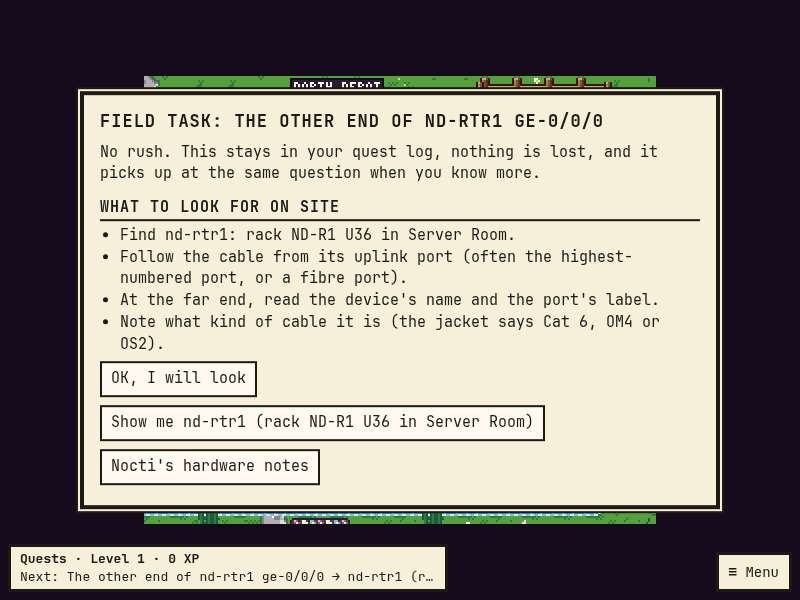
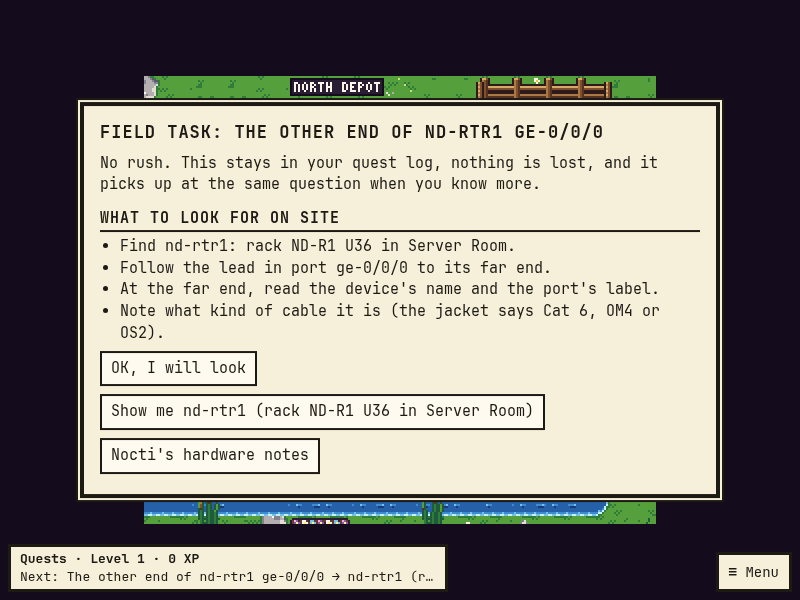
Quests: live tests for part-confirmed errands, undone fixes and the kept estate; plain words for missing permissions
- Live: an errand confirmed one device at a time, "It has none" counted as answered and never paid, the kept estate
  equal to a whole new read after every write, a fix removed in NetBox counted and not reopened, health on a proxy
  token that cannot read users, the quest log and the line naming a missing permission before Apply.
- The quest log says what a player's NetBox user may not write in plain words (cables, circuits, addresses ...).
- A line about one port names that port in its field task.
- Live e2e plays the line of an addressed router port (a management port's address no longer asks for a cable).

Changed region(s): [[0.0938, 0.12, 0.9062, 0.87]]

diff --git a/web/e2e-live/quests-live.spec.ts b/web/e2e-live/quests-live.spec.ts
@@ -4,7 +4,7 @@ import { boot, game, typed } from '../e2e/game-helpers';
 // A quest on the live stack, written for real: against a WRITER's own dev NetBox stack (fresh seed), with the proxy on
 // that stack's rw token and WRITE_ENABLED=1, vite in front of it (RACKWALKER_LIVE_URL), and NB_URL + NB_ADMIN_TOKEN
 // for the NetBox-side checks and to make the player. The player is a NetBox user made for this run, who may add
-// cables and nothing else: they ask North Depot's quest giver, answer what the far end of nd-core1's management port
+// cables and nothing else: they ask North Depot's quest giver, answer what the far end of nd-rtr1's addressed port
 // is, preview the cable, apply it, and NetBox confirms: XP, the cable tracer, the changelog naming the player. The
 // cable and the user are removed afterwards, so the stack is as seeded again and the test can run again.
 // Screenshots: docs/screenshots/quests/live-*.png and reward.png.
@@ -40,8 +40,8 @@ test('live: a quest line from the giver to a cable NetBox confirms, with XP, a t
   test.skip(!health.write_enabled, 'needs a write-enabled proxy (WRITE=1 FORCE=1 make netbox-env, then make dev)');
   expect(health.netbox.permission_check).toBe('ok');
   type Port = { id: number; cable: { id: number } | null };
-  const core = (await nb<{ results: Port[] }>('/api/dcim/interfaces/?device=nd-core1&name=mgmt0')).results[0]!;
-  expect(core.cable, 'fresh seed: nd-core1 mgmt0 has no cable (make netbox-reset)').toBeNull();
+  const core = (await nb<{ results: Port[] }>('/api/dcim/interfaces/?device=nd-rtr1&name=ge-0/0/0')).results[0]!;
+  expect(core.cable, 'fresh seed: nd-rtr1 ge-0/0/0 has no cable (make netbox-reset)').toBeNull();
   let cableId: number | null = null;
   // The player: a NetBox user of their own, whose only write permission is to add cables.
   const name = `quest-walker-${Date.now() % 100000}`;
@@ -58,7 +58,11 @@ test('live: a quest line from the giver to a cable NetBox confirms, with XP, a t
     // NetBox read now (a run just before this one may have removed its cable in NetBox itself)
     await page.evaluate(() => ((window.__game!.shell.transitionMs = 0), window.__game!.shell.quests!.refresh(true)));
     const before = await page.evaluate(() => window.__game!.shell.quests!.rewards());
-    expect(await page.evaluate(() => window.__game!.shell.quests!.boards.netbox!.can_write)).toBe(true);
+    // The quest log says up front what this player's NetBox user may and may not write: cables yes, the rest no.
+    const board = await page.evaluate(() => window.__game!.shell.quests!.boards.netbox!);
+    expect(board.can_write).toBe(true);
+    expect(board.write_blocked).toBe('Your NetBox user may not add circuits, add circuit ends, add addresses, add prefixes, change devices, change racks or change sites. '
+      + 'Lines that need that run as practice, with no XP; ask a NetBox admin for the permission.');
 
     // The giver of North Depot: stand beside them (wherever the last visit left the player), press the interact key,
     // hear why it matters, start the line.
@@ -77,14 +81,14 @@ test('live: a quest line from the giver to a cable NetBox confirms, with XP, a t
     await page.screenshot({ path: `${SHOTS}/live-giver.png` });
     await choose(page, "Let's find out");
     await typed(page);
-    expect((await game(page)).dialogue!.text).toBe('nd-core1 port mgmt0 is carrying an address, but has no cable on record. What is on the other end?');
-    await choose(page, 'nd-acc-nd-r2');
-    await choose(page, 'Gi1/0/7');
+    expect((await game(page)).dialogue!.text).toBe('What is on the other end of nd-rtr1 ge-0/0/0?');
+    await choose(page, 'nd-fw1');
+    await choose(page, 'port8');
     await choose(page, 'Copper patch lead');
 
     // The preview comes from NetBox's own state; Apply will write, and says whose name the changelog gets.
     await expect(page.locator('#quest-preview')).toBeVisible({ timeout: 20_000 });
-    await expect(page.locator('#quest-changes li')).toHaveText(['New cable: nd-core1 mgmt0 to nd-acc-nd-r2 Gi1/0/7 (copper patch lead (Cat 6)).']);
+    await expect(page.locator('#quest-changes li')).toHaveText(['New cable: nd-rtr1 ge-0/0/0 to nd-fw1 port8 (copper patch lead (Cat 6)).']);
     await expect(page.locator('#quest-mode')).toHaveAttribute('data-mode', 'real');
     await expect(page.locator('#quest-mode')).toContainText('its changelog will name you');
     await expect(page.locator('#quest-apply')).toHaveText('Apply to NetBox');
@@ -94,8 +98,9 @@ test('live: a quest line from the giver to a cable NetBox confirms, with XP, a t
     // NetBox is read again: confirmed, with what the admin can now do, XP for the rank, and (the first time) the tool.
     await expect(page.locator('#quest-reward h2')).toHaveText('NetBox confirms it', { timeout: 60_000 });
     await expect(page.locator('#quest-reward')).toHaveAttribute('data-verified', 'true');
-    await expect(page.locator('#quest-reward .now')).toHaveText('You can now trace that port to its far end.');
-    await expect(page.locator('#quest-reward')).toContainText("NetBox's cable trace from nd-core1 mgmt0 reaches nd-acc-nd-r2 Gi1/0/7 in 1 hop.");
+    await expect(page.locator('#quest-reward .now')).toHaveText('You can now trace nd-rtr1 ge-0/0/0 to its far end.');
+    await expect(page.locator('#quest-reward')).toContainText('North Depot is now');
+    await expect(page.locator('#quest-reward')).toContainText("NetBox's cable trace from nd-rtr1 ge-0/0/0 reaches nd-fw1 port8 in 1 hop.");
     const v = await page.evaluate(() => window.__game!.shell.quests!.lastVerdict!);
     expect(v).toMatchObject({ mode: 'real', verified: true, complete: true });
     expect(v.xp_awarded).toBeGreaterThan(0);
@@ -109,23 +114,24 @@ test('live: a quest line from the giver to a cable NetBox confirms, with XP, a t
     expect(await page.evaluate(() => document.body.dataset.tracer)).toBe('open');
 
     // NetBox itself: the cable is there, typed as answered, and its changelog names the player and the quest.
-    const now = (await nb<{ results: Port[] }>('/api/dcim/interfaces/?device=nd-core1&name=mgmt0')).results[0]!;
+    const now = (await nb<{ results: Port[] }>('/api/dcim/interfaces/?device=nd-rtr1&name=ge-0/0/0')).results[0]!;
     cableId = now.cable!.id;
     const cable = await nb<{ type: string; b_terminations: { object: { name: string; device: { name: string } } }[] }>(`/api/dcim/cables/${cableId}/`);
-    expect([cable.type, cable.b_terminations[0]!.object.device.name, cable.b_terminations[0]!.object.name]).toEqual(['cat6', 'nd-acc-nd-r2', 'Gi1/0/7']);
+    expect([cable.type, cable.b_terminations[0]!.object.device.name, cable.b_terminations[0]!.object.name]).toEqual(['cat6', 'nd-fw1', 'port8']);
     const me = await (await page.request.get('/api/game/session')).json();
     const log = await nb<{ results: { message: string }[] }>(`/api/core/object-changes/?changed_object_type=dcim.cable&changed_object_id=${cableId}`);
     expect(me.player.username).toBe(name);
-    expect(log.results[0]!.message).toBe(`rackwalker (${name}): quest: The other end of nd-core1 mgmt0`);
+    expect(log.results[0]!.message).toBe(`rackwalker (${name}): quest: The other end of nd-rtr1 ge-0/0/0`);
 
     // The log: one line confirmed by NetBox, the tool on show.
     await page.click('#quest-next');
     await expect(page.locator('#quest-counts')).toContainText('confirmed by NetBox');
+    await expect(page.locator('#quest-write-note')).toContainText('Your NetBox user may not add circuits, add circuit ends');
     await expect(page.locator('#quest-rewards')).toContainText('Cable tracer');
     await page.screenshot({ path: `${SHOTS}/live-quest-log.png` });
   } finally {
     // put the stack back as seeded
-    const now = (await nb<{ results: Port[] }>('/api/dcim/interfaces/?device=nd-core1&name=mgmt0')).results[0]!;
+    const now = (await nb<{ results: Port[] }>('/api/dcim/interfaces/?device=nd-rtr1&name=ge-0/0/0')).results[0]!;
     if (now.cable) await nb(`/api/dcim/cables/${now.cable.id}/`, { method: 'DELETE' });
     await nb(`/api/users/permissions/${perm.id}/`, { method: 'DELETE' });
     await nb(`/api/users/users/${user.id}/`, { method: 'DELETE' });

diff --git a/proxy/tests/test_live_quests.py b/proxy/tests/test_live_quests.py
@@ -13,6 +13,7 @@ import httpx
 import pytest
 from fastapi.testclient import TestClient
 
+from rackwalker_proxy import questroutes
 from rackwalker_proxy.app import Settings, create_app
 
 from .conftest import LOCAL, schema_validator
@@ -79,8 +80,8 @@ def harbour(nbx):
         assert r.status_code in (204, 404), (path, r.text)
 
 
-def _client(tmp, token: str, write: bool = True) -> TestClient:
-    app = create_app(Settings(URL, TOKEN, write, None, cache_ttl=0, state_dir=tmp, estate_ttl=0))
+def _client(tmp, token: str, write: bool = True, estate_ttl: float = 0) -> TestClient:
+    app = create_app(Settings(URL, TOKEN, write, None, cache_ttl=0, state_dir=tmp, estate_ttl=estate_ttl))
     cl = TestClient(base_url=LOCAL, app=app)
     r = cl.post("/api/game/session", json={"token": token}, headers={CSRF: "sign-in"})
     assert r.status_code == 200, r.text
@@ -91,7 +92,9 @@ def _client(tmp, token: str, write: bool = True) -> TestClient:
 
 @pytest.fixture(scope="module")
 def admin(tmp_path_factory, harbour):
-    with _client(tmp_path_factory.mktemp("quests-admin"), ADMIN) as cl:
+    # this player's proxy keeps its read of the estate, as a real one does: after each quest only the sites it changed
+    # are read again, and every later test sees the estate through that
+    with _client(tmp_path_factory.mktemp("quests-admin"), ADMIN, estate_ttl=600) as cl:
         yield cl
 
 
@@ -146,7 +149,10 @@ def test_the_unconnected_estate_is_found_and_ordered_live(admin, harbour):
     # at most a few lines are open at one site, the most valuable first; the rest wait
     assert [q["kind"] for q in b["quests"]] == ["site_no_way_out", "sites_not_linked", "locations_not_linked"]
     assert b["queued"] == 5 and all(q["status"] == "offered" for q in b["quests"])
-    assert b["quests"][0]["purpose"] == "Nobody can tell how Harbour Office reaches the internet. Let's find out."
+    assert b["quests"][0]["purpose"] == "Nobody can tell from NetBox how Harbour Office reaches the outside world. Let's find out."
+    assert b["quests"][2]["purpose"] == ("Loft and Quay Room at Harbour Office have no link between them. If that link fails, nobody knows "
+                                         "which cable to check. Let's record it.")
+    assert (b["can_write"], b["write_blocked"]) == (True, None)
     assert not next(s for s in b["sites"] if s["site_id"] == site)["boss_ready"]
 
 
@@ -173,6 +179,7 @@ def test_the_way_out_line_ends_in_a_trace_netbox_confirms_live(admin, harbour, n
     assert (v["mode"], v["verified"], v["complete"], v["quest"]["status"]) == ("real", True, True, "done")
     assert v["xp_awarded"] == 120 and v["unlocked"] == ["cable_tracer"]
     assert v["can_now"] == "You can now trace Harbour Office to the carrier's hand-off."
+    assert v["message"].startswith("NetBox confirms it. Harbour Office is now ") and v["message"].endswith(" % complete.")
     assert v["trace"] == "NetBox's cable trace from sw-quay-1 Te1/1/2 reaches circuit EXF-20417 (side A) in 1 hop."
     # NetBox itself: the circuit exists, ends at the site, and the switch port traces to it
     circuit = _first(nbx, "circuits/circuits/", cid="EXF-20417")
@@ -202,7 +209,7 @@ def test_i_dont_know_yet_parks_the_line_and_it_resumes_where_it_stopped_live(adm
     v = admin.post("/api/game/quests/apply", json={"scope": "netbox", "quest_id": quest["id"]}).json()
     assert (v["verified"], v["complete"]) == (True, True)
     assert v["trace"] == "NetBox's cable trace from sw-loft-1 Te1/1/1 reaches sw-quay-2 Te1/1/1 in 1 hop."
-    assert v["can_now"] == "You can now trace from one room to the other."
+    assert v["can_now"] == "You can now trace from Loft to Quay Room."
     assert v["xp_awarded"] == 120 and v["unlocked"] == []
 
 
@@ -240,6 +247,87 @@ def _player(nbx, name: str, perms: list[dict]) -> tuple[int, str]:
     return uid, t["token"] if t["token"].startswith("nbt_") else f"nbt_{t['key']}.{t['token']}"
 
 
+def test_an_errand_is_confirmed_part_by_part_and_a_device_nobody_logs_in_to_is_an_answer_live(admin, harbour, nbx):
+    site = harbour["site"]["id"]
+
+    def still_open() -> tuple[int, int]:
+        """(open checks as this player's quest log counts them, open checks as the scanner reads them from NetBox)."""
+        mine = next(s for s in _board(admin, site)["sites"] if s["site_id"] == site)["completeness"]["open"]
+        return mine, admin.get(f"/api/quests/gaps/{site}").json()["completeness"]["open"]
+    assert still_open()[0] == still_open()[1] - 1          # "no link to the other sites, on purpose" was said earlier
+    quest = next(q for q in _board(admin, site)["quests"] if q["kind"] == "device_unreachable")
+    assert quest["purpose"].startswith("NetBox does not say how to reach sw-quay-1, sw-quay-2 and sw-loft-1 to manage them.")
+    ids = [harbour["devs"][n]["id"] for n in ("sw-quay-1", "sw-quay-2", "sw-loft-1")]
+    quest = _answer(admin, quest, {f"ip_{ids[0]}": "An address not in NetBox yet", f"addr_{ids[0]}": "192.0.2.61/24", f"port_{ids[0]}": "Gi1/0/1",
+                                   f"ip_{ids[1]}": "It has none", f"ip_{ids[2]}": "I don't know yet"})
+    assert quest["status"] == "ready" and [o["op"] for o in quest["proposal"]["ops"]] == ["assign_ip"]
+    v = admin.post("/api/game/quests/apply", json={"scope": "netbox", "quest_id": quest["id"]}).json()
+    schema_validator("QuestVerdict").validate(v)
+    # one of three is confirmed and paid as a third; the one with no address counts as answered and pays nothing
+    assert (v["mode"], v["verified"], v["complete"], v["xp_awarded"]) == ("real", True, False, 40)
+    assert v["message"] == "NetBox confirms 1 of 3; the rest of this line stays open."
+    assert v["quest"]["progress"] == {"total": 3, "verified": 1} and v["quest"]["status"] == "parked"   # sw-loft-1: "I don't know yet"
+    assert _first(nbx, "dcim/devices/", id=ids[0])["primary_ip4"]["address"] == "192.0.2.61/24"
+    b = _board(admin, site)
+    gaps = [g["id"] for g in admin.get(f"/api/quests/gaps/{site}", params={"limit": 500}).json()["items"] if g["field"] == "primary_ip"]
+    assert gaps == [f"device:{i}:primary_ip" for i in sorted(ids[1:])]         # NetBox: two devices still have no primary IP
+    assert still_open()[0] == still_open()[1] - 2                                 # for this player, one of them is answered
+    # the line goes on with the device still unknown, and only with it
+    again = next(q for q in b["quests"] if q["id"] == quest["id"])
+    assert again["step"]["prompt"] == "How do you reach sw-loft-1 to manage it?"
+    # checking NetBox again changes nothing and pays nothing
+    v2 = admin.post("/api/game/quests/verify", json={"scope": "netbox", "quest_id": quest["id"]}).json()
+    assert (v2["xp_awarded"], v2["complete"], v2["quest"]["step"]["prompt"]) == (0, False, "How do you reach sw-loft-1 to manage it?")
+    done = _answer(admin, {**again, "status": "active"}, {f"ip_{ids[2]}": "It has none"})
+    assert done["status"] == "dismissed"
+    assert still_open()[0] == still_open()[1] - 3
+
+
+def test_the_kept_estate_matches_a_whole_new_read_of_netbox_live(admin, harbour, monkeypatch):
+    """Every write above was read back one site at a time into the kept estate. A whole new read must say the same."""
+    kept = _board(admin)
+    monkeypatch.setattr(questroutes, "FRESH_ALL_S", 0.0)
+    r = admin.get("/api/game/quests", params={"scope": "netbox", "fresh": "true"})
+    assert r.status_code == 200, r.text
+    whole = r.json()
+    for key in ("findings", "sites", "quests", "queued", "incomplete", "message"):
+        assert kept[key] == whole[key], key
+    gaps = admin.get(f"/api/quests/gaps/{harbour['site']['id']}").json()
+    assert gaps["source"] == "cache" and gaps["completeness"]["total"] > 0
+
+
+def test_a_fix_deleted_in_netbox_reopens_nothing_and_is_counted_live(admin, harbour, nbx, monkeypatch):
+    site = harbour["site"]["id"]
+    line = next(q for q in _board(admin, site)["quests"] if q["kind"] == "locations_not_linked")
+    assert line["status"] == "done" and not line["lapsed"]
+    xp = _board(admin)["rewards"]["xp"]
+    for name in ("Te1/1/1", "Te1/1/2"):                                               # someone removes sw-loft-1's cables in NetBox
+        port = _first(nbx, "dcim/interfaces/", device_id=harbour["devs"]["sw-loft-1"]["id"], name=name)
+        assert nbx.delete(f"dcim/cables/{port['cable']['id']}/").status_code == 204
+    monkeypatch.setattr(questroutes, "FRESH_SITE_S", 0.0)
+    r = admin.get("/api/game/quests", params={"scope": "netbox", "site_id": site, "fresh": "true"})    # "Read NetBox again"
+    assert r.status_code == 200, r.text
+    b = r.json()
+    schema_validator("QuestBoard").validate(b)
+    again = next(q for q in b["quests"] if q["id"] == line["id"])
+    assert (again["status"], again["lapsed"], again["step"]) == ("done", True, None)
+    assert b["rewards"]["xp"] == xp and b["rewards"]["lapsed"] == 1
+    assert not [q for q in b["quests"] if q["kind"] == "locations_not_linked" and q["status"] != "done"]
+    # what NetBox does not know now is asked as lines of their own: the switches that lost their only cable
+    assert "device_unconnected" in [q["kind"] for q in b["quests"] if q["status"] == "offered"]
+    assert {"device_unconnected:device:%d" % harbour["devs"][n]["id"] for n in ("sw-loft-1", "sw-quay-2")} <= {f["id"] for f in b["findings"]}
+
+
+def test_health_reports_a_proxy_token_that_cannot_read_permissions_live(tmp_path, nbx):
+    uid, token = _player(nbx, "quest-blind-proxy", [VIEW_ALL])
+    try:
+        app = create_app(Settings(URL, token, False, None, cache_ttl=0, state_dir=tmp_path))
+        with TestClient(base_url=LOCAL, app=app) as cl:
+            assert cl.get("/api/health").json()["netbox"]["permission_check"] == "cannot_view_users"
+    finally:
+        nbx.delete(f"users/users/{uid}/")
+
+
 VIEW_ALL = {"object_types": ["dcim.site", "dcim.device", "dcim.rack"], "actions": ["view"]}
 
 
@@ -265,14 +353,22 @@ def test_a_write_needs_the_players_own_netbox_permission_live(tmp_path, nbx, har
             assert err["details"]["missing"] == [{"object_type": "dcim.site", "action": "change", "constrained": bool(extra)}]
             assert "you can still play in practice mode" in err["message"]
             # the same player on a quest line: the change is shown as a practice run, nothing is written, no XP
-            line = next(q for q in _board(cl, harbour["site"]["id"])["quests"] if q["kind"] == "site_record")
+            b = _board(cl, harbour["site"]["id"])
+            # the quest log says it before the first answer, not after the last
+            assert b["write_enabled"] and not b["can_write"]
+            assert b["write_blocked"].startswith("Your NetBox user may not change anything a quest writes")
+            line = {"id": f"q:site_record:site:{harbour['site']['id']}"}
             form = {"scope": "netbox", "quest_id": line["id"], "step": "record", "values": {"facility": "HBR-1"}}
             quest = cl.post("/api/game/quests/answer", json=form).json()
-            assert quest["status"] == "ready"
+            assert quest["status"] == "ready" and quest["write_blocked"].startswith("Your NetBox user may not change dcim.site.")
             v = cl.post("/api/game/quests/apply", json={"scope": "netbox", "quest_id": line["id"]}).json()
             assert (v["mode"], v["verified"], v["xp_awarded"], v["quest"]["status"]) == ("dry_run", False, 0, "practised")
-            assert "your NetBox user may not change dcim.site" in v["message"]
+            assert v["message"].startswith("Practice run, nothing was written: Your NetBox user may not change dcim.site. Ask a NetBox admin")
+            assert v["message"].lower().count("nothing was written") == 1 and v["message"].endswith("No XP for a practice run.")
             assert _changelog_count(nbx) == before and _board(cl)["rewards"]["xp"] == 0
+            # the practice run threw nothing away: the line still has the answer and its change
+            kept = next(q for q in _board(cl, harbour["site"]["id"])["quests"] if q["id"] == line["id"])   # a practised line waits in the log
+            assert kept["status"] == "practised" and kept["said"] and kept["proposal"]["ops"][0]["fields"] == {"facility": "HBR-1"}
     finally:
         nbx.delete(f"users/users/{uid}/")
         if allowed:
@@ -295,7 +391,7 @@ def test_the_practice_island_never_writes_to_netbox_live(admin, nbx):
 def test_a_dry_run_proxy_marks_a_completion_as_practice_live(tmp_path, harbour, nbx):
     with _client(tmp_path, ADMIN, write=False) as cl:
         before = _changelog_count(nbx)
-        line = next(q for q in _board(cl, harbour["site"]["id"])["quests"] if q["kind"] == "site_record")
+        line = {"id": f"q:site_record:site:{harbour['site']['id']}"}
         cl.post("/api/game/quests/answer", json={"scope": "netbox", "quest_id": line["id"], "step": "record", "values": {"facility": "HBR-1"}})
         v = cl.post("/api/game/quests/apply", json={"scope": "netbox", "quest_id": line["id"]}).json()
         assert (v["mode"], v["verified"], v["xp_awarded"], v["quest"]["status"]) == ("dry_run", False, 0, "practised")

diff --git a/proxy/rackwalker_proxy/quests.py b/proxy/rackwalker_proxy/quests.py
@@ -27,6 +27,7 @@ from typing import Any
 
 from .estate import Estate, is_network, is_passive, is_physical, is_router, natural
 from .findings import Analysis
+from .findings import _some as some
 
 XP = {"connectivity": 120, "identity": 50, "layout": 30}
 MINUTES = {"connectivity": 4, "identity": 5, "layout": 3}
@@ -678,7 +679,8 @@ def flow_port(ctx: Ctx) -> list[dict[str, Any]]:
     cands = (cands + [choice(f"device:{d['id']}", _dev_label(e, d)) for d in servers])[:MAX_CANDIDATES]
     note = f" (described as {port['description'].strip()[:40]!r})" if port["description"].strip() else ""
     peer = ctx.choice("peer", f"What is on the other end of {dev['name']} {port['name']}{note}?",
-                      cands + [OTHER, choice("none", "Nothing: the port is not in use", "not_applicable")], look_checklist(e, dev))
+                      cands + [OTHER, choice("none", "Nothing: the port is not in use", "not_applicable")],
+                      [f"Find {dev['name']}: {e.where(dev)}.", f"Follow the lead in port {port['name']} to its far end."] + look_checklist(e, dev)[2:])
     if peer == "other":
         raise Stop("parked", None, ["Add the far-end device to NetBox (Devices > Add).", "Come back: it will then be one of the choices."])
     if peer.startswith("circuit:"):
@@ -732,12 +734,6 @@ WORDS: dict[str, tuple[str, str, str]] = {
                                   "You can now send someone to the exact unit in rack {subject}."),
     "room_layout": ("The floor plan", "Someone new cannot find a rack that is not on the plan. Let's put that right.", "You can now point to {names} on the floor plan."),
 }
-
-
-def some(names: list[str]) -> str:
-    from .findings import _some
-
-    return _some(names)
 
 
 def words_of(e: Estate, f: dict[str, Any]) -> tuple[str, str, str]:

diff --git a/proxy/rackwalker_proxy/perms.py b/proxy/rackwalker_proxy/perms.py
@@ -133,9 +133,21 @@ def refusal(missing: list[dict[str, Any]]) -> ApiError:
     return ApiError("forbidden", NOT_WRITTEN + text[0].lower() + text[1:], {"reason": "player_lacks_permission", "missing": missing})
 
 
-# Every (object type, action) a quest line may need for its change.
-QUEST_NEEDS = [("dcim.cable", "add"), ("circuits.circuit", "add"), ("circuits.circuittermination", "add"), ("ipam.ipaddress", "add"),
-               ("ipam.prefix", "add"), ("dcim.device", "change"), ("dcim.rack", "change"), ("dcim.site", "change")]
+# Every (object type, action) a quest line may need for its change, with the words the quest log uses for it.
+QUEST_WORDS = {("dcim.cable", "add"): "add cables", ("circuits.circuit", "add"): "add circuits",
+               ("circuits.circuittermination", "add"): "add circuit ends", ("ipam.ipaddress", "add"): "add addresses",
+               ("ipam.prefix", "add"): "add prefixes", ("dcim.device", "change"): "change devices", ("dcim.rack", "change"): "change racks",
+               ("dcim.site", "change"): "change sites"}
+QUEST_NEEDS = list(QUEST_WORDS)
+
+
+def some_missing(missing: list[dict[str, Any]]) -> str:
+    """For the quest log of a player who may write some of what quests write, and not the rest."""
+    words = [QUEST_WORDS[(m["object_type"], m["action"])] for m in missing]
+    listed = ", ".join(words[:-1]) + (" or " if len(words) > 1 else "") + words[-1]
+    extra = " A permission with constraints does not count here." if any(m["constrained"] for m in missing) else ""
+    return (f"Your NetBox user may not {listed}. Lines that need that run as practice, with no XP; ask a NetBox admin for the "
+            f"permission.{extra}")
 
 
 async def check_health(client: nb.NetBox) -> str:

diff --git a/proxy/tests/test_estate_read.py b/proxy/tests/test_estate_read.py
@@ -391,11 +391,12 @@ def test_a_line_fixed_in_netbox_itself_is_confirmed_by_a_read_of_its_site(tmp_pa
 @pytest.mark.parametrize("permissions,can_write,board_says,line_says", [
     ([], False, "Your NetBox user may not change anything a quest writes", "Your NetBox user may not add dcim.cable."),
     ([{"id": 1, "enabled": True, "object_types": ["dcim.device"], "actions": ["change"], "constraints": None}], True,
-     "Your NetBox user may not add dcim.cable, add circuits.circuit", "Your NetBox user may not add dcim.cable."),
+     "Your NetBox user may not add cables, add circuits, add circuit ends, add addresses, add prefixes, change racks or change sites. "
+     "Lines that need that run as practice, with no XP; ask a NetBox admin for the permission.", "Your NetBox user may not add dcim.cable."),
     ([{"id": 1, "enabled": False, "object_types": ["dcim.cable"], "actions": ["add"], "constraints": None}], False,
      "Your NetBox user may not change anything", "Your NetBox user may not add dcim.cable."),
     ([{"id": 1, "enabled": True, "object_types": ["dcim.cable"], "actions": ["add"], "constraints": None}], True,
-     "Your NetBox user may not add circuits.circuit", None),
+     "Your NetBox user may not add circuits, add circuit ends, add addresses, add prefixes, change devices, change racks or change sites.", None),
 ])
 def test_the_quest_log_says_up_front_what_the_players_netbox_user_may_not_write(tmp_path, monkeypatch, permissions, can_write, board_says, line_says):
     fake = FakeNetBox(tiny())

diff --git a/proxy/tests/test_quests.py b/proxy/tests/test_quests.py
@@ -613,8 +613,12 @@ def test_every_opening_line_names_what_is_missing_and_where():
     b.e.touch()
     assert one(b.e, "site_record")["finding"]["title"] == ("Mill Lane has no GPS position, facility name or country on record, so it cannot be "
                                                           "put on a map or named to a carrier.")
-    port = one(interface_no_cable(), "interface_no_cable")
+    e = interface_no_cable()
+    port = one(e, "interface_no_cable")
     assert port["purpose"].startswith("sw1 eth4 has a description (uplink to the annex) but no cable.")
+    asked = quests.evaluate(e, port, {"peer": {"choice": "unknown"}})
+    assert asked["step"]["prompt"] == "What is on the other end of sw1 eth4 (described as 'uplink to the annex')?"
+    assert asked["checklist"][:2] == ["Find sw1: rack R1 U10 in Room.", "Follow the lead in port eth4 to its far end."]
 
 
 def test_ports_are_offered_likeliest_uplink_first():

diff --git a/proxy/rackwalker_proxy/questroutes.py b/proxy/rackwalker_proxy/questroutes.py
@@ -102,7 +102,7 @@ class Gate:
         if len(missing) == len(perms.QUEST_NEEDS):
             return False, ("Your NetBox user may not change anything a quest writes (cables, circuits, addresses, devices, racks, sites), "
                            "so every line runs as practice. Ask a NetBox admin for the permission.")
-        return True, (perms.why_not(missing) + " Lines that need it run as practice.") if missing else None
+        return True, perms.some_missing(missing) if missing else None
 
 
 def base_checks(line: dict[str, Any], row: dict[str, Any] | None) -> list[str]:

diff --git a/contracts/api.md b/contracts/api.md
@@ -192,7 +192,7 @@ Ids above 9,000,000 belong to the practice island, which is not in NetBox: both 
   `next_quest_id` is the most valuable fresh line of the scope. `can_write` is false, with `write_blocked` saying why,
   on the practice island, in fixture mode, on a dry-run proxy, when the proxy cannot read the player's NetBox
   permissions, and when those permissions cover nothing a quest writes. When they cover only some of it, `can_write`
-  stays true and `write_blocked` names what is missing. `Quest.write_blocked` says the same for one line's own
+  stays true and `write_blocked` says in plain words what is missing. `Quest.write_blocked` says the same for one line's own
   proposal, so the game can say "practice run" before the player presses Apply.
   A list that was cut at its cap or that NetBox refuses to the proxy is named in `incomplete`; then no site is
   reported above 99 %, `boss_ready` and `all_in_order` are false, and no spot check is offered.
